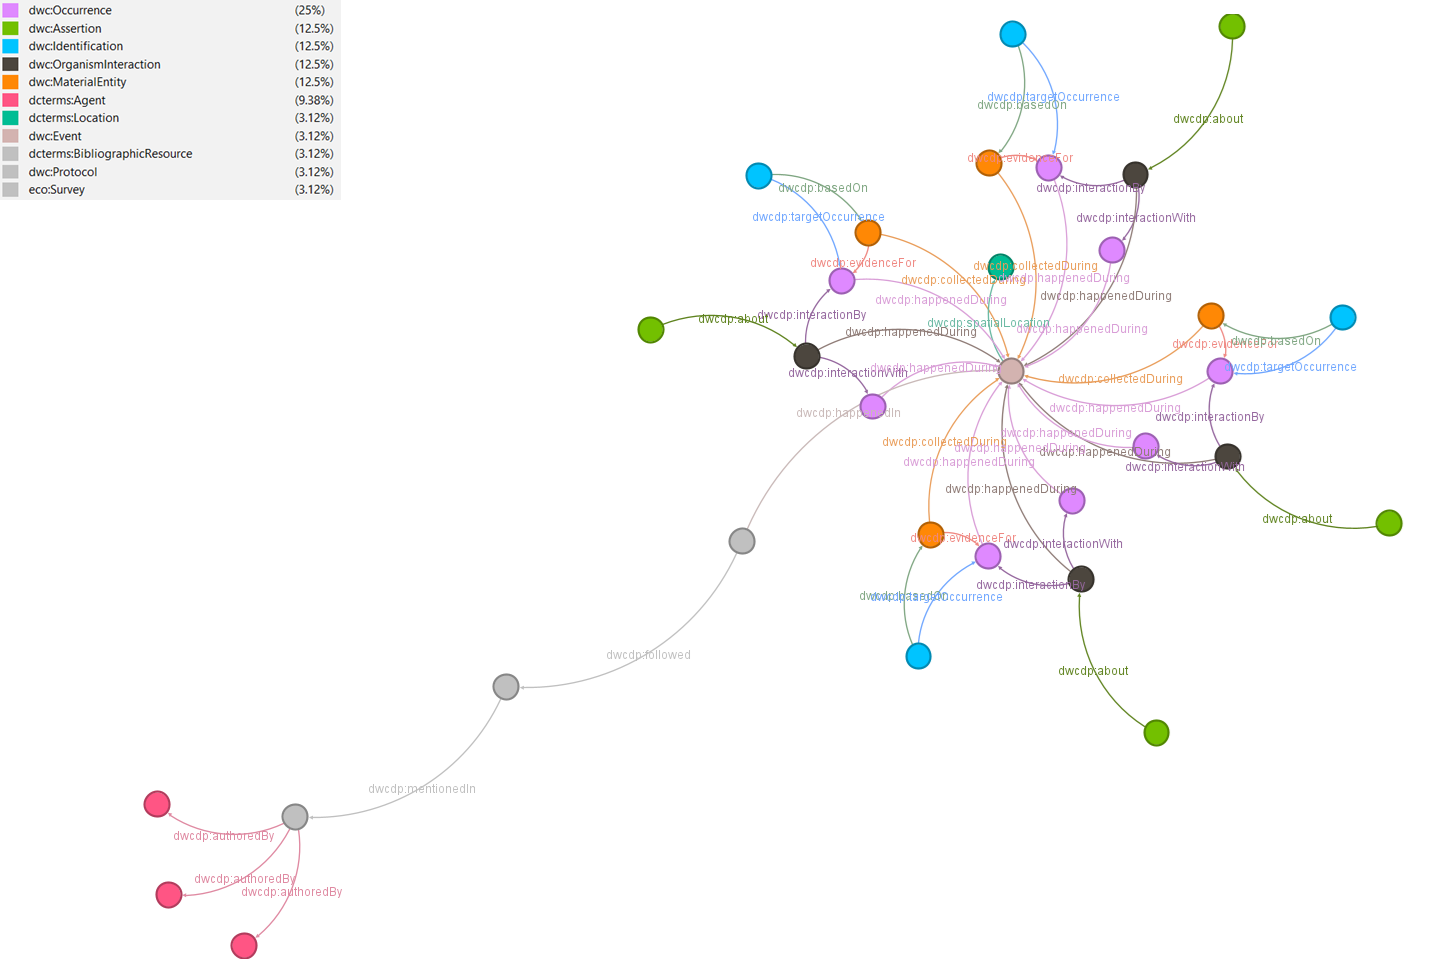
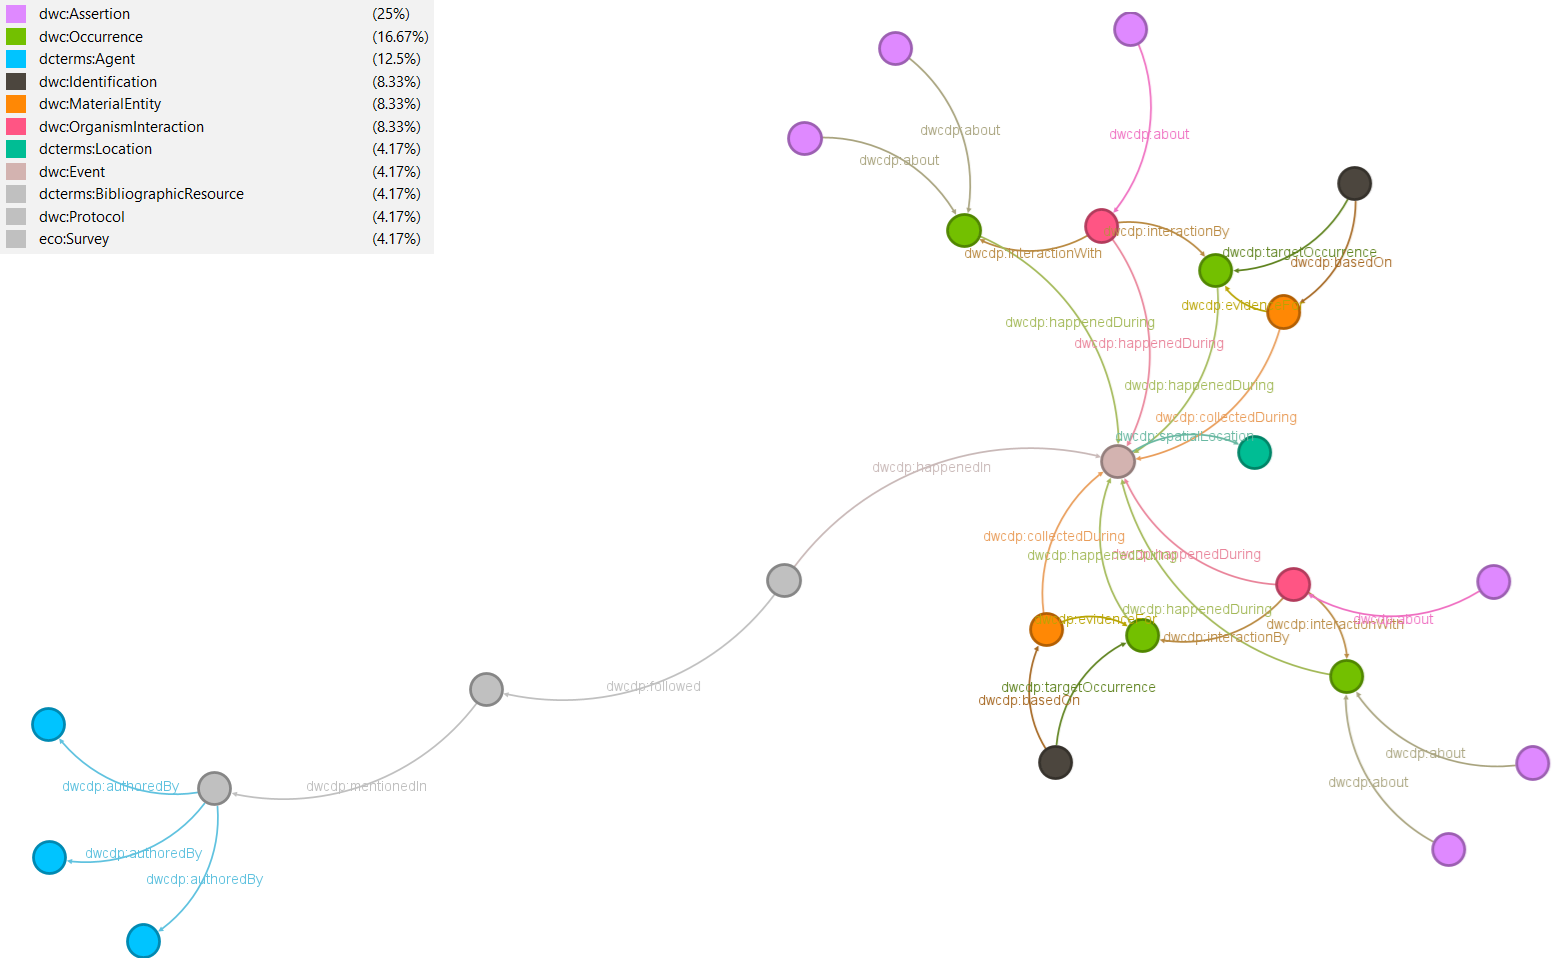
add text reworked crop flower visitors

diff --git a/README.md b/README.md
@@ -1456,3 +1456,147 @@ Values in the `dwc:occurrenceID` column follow the form `urn:catalog:JAMSTEC:god
   The exercise further highlights that some modelling challenges are not inherent to RDF itself, but rather emerge from ambiguities or compression in tabular representations. In particular, tables such as `survey-target.csv` may encode complex, multi-component concepts across multiple rows that are implicitly related. Making these relationships explicit in RDF requires careful modelling decisions, such as the introduction of intermediate nodes or component structures, to preserve the intended semantics for machine interpretation.
 
   Finally, this example shows that even a relatively small and well-scoped dataset can surface important design considerations for ontology development. Addressing these issues early—by aligning closely with DwC-DP, documenting modelling assumptions, and testing conversions on real datasets—helps ensure that the resulting RDF representations are both semantically faithful and robust for downstream applications such as automated querying, validation, and integration with other biodiversity knowledge graphs.
+
+## Value of revisiting datasets
+
+### More expressive datasets
+
+  The crop-flower-visit dataset was originally published as a sampling event dataset on GBIF. As it is, the dataset has information not only on insect visitors, but also on several other entities, such as the plant organisms visited, assertions about the visited plants and the nature of the relationship itself, which is a type of `dwc:OrganismInteraction`. However, the entirety of this information is provided as entries for the data property `dwc:occurrenceRemarks` or in the EML file within the Darwin Core Archive.
+
+  For example, an entry of `dwc:occurrenceRemarks` such as `Captured on Pyrus pyrifolia (Burm.f.) Nakai (Hermaphrodite) | Sample lost or damaged: FALSE` indicates that the insect was caught not just on any plant, but on an Asian pear plant. Furthermore, this plant was sexed as being hermaphrodite. In addition, the associated EML file mentions that `[t]he surveys were conducted on the days of full bloom` of the trees, indicating their reproductive condition. This information can be extracted and added to the graph as additional information.
+
+  Considering both pieces information leads to the more complex ontology subset:
+
+  ![Directed graph of the reworked crop-flower-visit dataset](images/subset/cropv2-small2.png)
+
+  The ontology subset is now more complex, as it requires the consideration of `dwc:OrganismInteraction` and of various kinds of `dwc:Assertion` instances. For ease of visualization, two `dwc:Occurrence` instances have been shown. The one representing the insect is related to the organism interaction node through the object property `dwcdp:interactionBy` and the occurrence representing the plant is related to the organism interaction node through the object property `dwcdp:interactionWith`.
+
+  Also note that assertions can be either about the plant organism (i.e. sex and reproductive condition) or about the interaction itself.
+
+  To view this more clearly, consider the graph created when only the data associated with event `TKC_04`, which happened in an experimental farm in the province of Ibaraki (茨城県). In this case, only two insects were captured, with one identified to the genus *Andrena*, and the other to *Lasioglossum*. Both were caught after visiting the flowers of hermaphrodite Asian pear trees (*Pyrus pyrifolia*). The two graphs below show the graph without and with the additional extracted data:
+
+![Directed graph of the reworked crop-flower-visit dataset](images/complete/cropv1-flower-directed-graph.png)
+![Directed graph of the reworked crop-flower-visit dataset](images/complete/cropv2-flower-directed-graph.png)
+
+  As can be seen, the general outline of the graph did not change. All that was done was add more information to the graph. Note that there may be cases where considering additional information can change the outline of the graph.
+
+  By rerunning the entire conversion of the Darwin Core Archive into RDF, the following graph can be produced:
+
+![Directed graph of the reworked crop-flower-visit dataset](images/cropv2-directed-graph.png)
+
+  The graph retains the same general flower-like appearance as before. However, in this case, the information contained in each flower is denser. Each flower is centered around a `dwc:Event`, which in this case, is a period during which researchers walked around the sites and captured flower-visiting insects. However, in this case, the information around each event is not simply about what insect was captured. The information now contains what insect was captured, doing what on which plant that had which assertions made about it. This is much more informative, and allows for more expressive datasets.
+
+  The interaction component of the data could be expressed in the following turtle snippet:
+
+  ```turtle
+  @prefix dcterms: <http://purl.org/dc/terms/> .
+  @prefix dwc: <http://rs.tdwg.org/dwc/terms/> .
+  @prefix dwcdp: <http://rs.tdwg.org/dwcdp/terms/> .
+  @prefix eco: <http://rs.tdwg.org/eco/terms/> .
+  @prefix xsd: <http://www.w3.org/2001/XMLSchema#> .
+
+  <urn:catalog:NIAES:Pollinators:TK17_72-occ> a dwc:Occurrence ;
+      dwc:basisOfRecord "PreservedSpecimen" ;
+      dwc:catalogNumber "TK17_72" ;
+      dwc:collectionCode "Pollinators" ;
+      dwc:eventID "TKC_04" ;
+      dwc:individualCount 1 ;
+      dwc:institutionCode "NIAES" ;
+      dwc:occurrenceRemarks "Captured on Pyrus pyrifolia (Burm.f.) Nakai (Hermaphrodite) | Sample lost or damaged: FALSE" ;
+      dwc:occurrenceStatus "present" ;
+      dwc:scientificName "Andrena" ;
+      dwcdp:happenedDuring <https://www.gbif.org/dataset/bbaca86c-f703-41fc-800a-fa301c0661fd/event/TKC_04> .
+
+  <urn:catalog:NIAES:Pollinators:TK17_72-occ-plant> a dwc:Occurrence ;
+      dwc:scientificName "Pyrus pyrifolia" ;
+      dwcdp:happenedDuring <https://www.gbif.org/dataset/bbaca86c-f703-41fc-800a-fa301c0661fd/event/TKC_04> .
+
+  <urn:catalog:NIAES:Pollinators:TK17_72-occ-plant-ass-1> a dwc:Assertion ;
+      dwc:assertionType "reproductive condition" ;
+      dwc:assertionTypeIRI dwc:reproductiveCondition ;
+      dwc:assertionValue "flowering stage" ;
+      dwc:assertionValueIRI <http://purl.obolibrary.org/obo/PO_0007616> ;
+      dwcdp:about <urn:catalog:NIAES:Pollinators:TK17_72-occ-plant> .
+
+  <urn:catalog:NIAES:Pollinators:TK17_72-occ-plant-ass-2> a dwc:Assertion ;
+      dwc:assertionType "sex" ;
+      dwc:assertionTypeIRI dwc:sex ;
+      dwc:assertionValue "hermaphrodite" ;
+      dwc:assertionValueIRI <http://purl.obolibrary.org/obo/PATO_0001340> ;
+      dwcdp:about <urn:catalog:NIAES:Pollinators:TK17_72-occ-plant> .
+
+  <urn:catalog:NIAES:Pollinators:TK17_72-occ-org-interaction> a dwc:OrganismInteraction ;
+      dwc:organismInteractionDescription "insects observed entering flowers from the front or accessing reproductive organs" ;
+      dwc:organismInteractionType "visited flower of" ;
+      dwc:relatedOrganismPart "flower" ;
+      dwc:subjectOrganismPart "body" ;
+      dwcdp:happenedDuring <https://www.gbif.org/dataset/bbaca86c-f703-41fc-800a-fa301c0661fd/event/TKC_04> ;
+      dwcdp:interactionBy <urn:catalog:NIAES:Pollinators:TK17_72-occ> ;
+      dwcdp:interactionWith <urn:catalog:NIAES:Pollinators:TK17_72-occ-plant> .
+
+  <urn:catalog:NIAES:Pollinators:TK17_72-occ-org-interaction-assert> a dwc:Assertion ;
+      dwc:assertionMadeDate "2017-04-25" ;
+      dwc:assertionValue "visits flowers of" ;
+      dwc:assertionValueIRI <http://purl.obolibrary.org/obo/RO_0002622> ;
+      dwcdp:about <urn:catalog:NIAES:Pollinators:TK17_72-occ-org-interaction> .
+  ```
+
+  Extraction of additional information and updating of the dataset using DwC-DP terms and the DwC-OWL ontology leads to a richer and more expressive dataset. It also leads itself more readily to analyses and querying. For example, a SPARQL query can now target occurrences of insects but only on Asian pear trees. Before, this would have required laborious regexing of the text. Consequently, the use of DwC-DP terms and the DwC-OWL ontology should not be seen only as something that should be used from now on, but also as something that researchers can use to make previously published datasets more expressive.
+
+### Smarter querying
+
+Furthermore, suppose we had the crop dataset stored in a triplestore and that it was exposed through a SPARQL endpoint. The following SPARQL query allows for extraction of the desired data (i.e. occurrences of insects but only on male Japanese persimmon trees):
+
+```sparql
+PREFIX dwc: <http://rs.tdwg.org/dwc/terms/>
+PREFIX dwcdp: <http://rs.tdwg.org/dwcdp/terms/>
+
+SELECT ?occPol ?occSci
+
+WHERE {
+  ?occPol a dwc:Occurrence ;
+          dwc:scientificName ?occSci ;
+          dwc:occurrenceRemarks ?occRem .
+
+  FILTER regex(?occRem, "Diospyros kaki")
+  FILTER regex(?occRem, "\\bmale\\b", "i")
+}
+```
+
+The query is a simple SPARQL query with regex-based pattern searching of the `dwc:occurrenceRemarks` entry. However, given that the study occurred in Japan, it is entirely possible that the researchers could have chosen the term `雄株` instead of `male` to define the sex of the flower. In this case, regexing becomes much more complicated for additional reasons. For example, would the researcher consider the kanji `雄株` or hiragana `おかぶ`? Would he consider the literal term `male` or a symbol such as `♂`?
+
+Note that this notion is quite real, as the previously seen Colombia bird ring dataset provided bird sex as the Spanish `Macho` and `Hembra`. Likewise, the capitalization of `Macho` means that unless come form of string manipulation is employed, `Macho` will not be considered the same as `macho`.
+
+On the other hand, the SPARQL query that is based on the DWC-OWL ontology is a bit more verbose, but is much more concise and consists of:
+
+```sparql
+PREFIX dwc: <http://rs.tdwg.org/dwc/terms/>
+PREFIX dwcdp: <http://rs.tdwg.org/dwcdp/terms/>
+
+SELECT ?occPol ?occSci
+
+WHERE {
+  ?occPol a dwc:Occurrence ;
+          dwc:scientificName ?occSci .
+  
+  ?inter a dwc:OrganismInteraction ;
+         dwcdp:interactionBy ?occPol ;
+         dwcdp:interactionWith ?occPlant .
+  
+  ?occPlant a dwc:Occurrence ;
+            dwc:scientificName "Diospyros kaki" .
+  
+  ?plantAss a dwc:Assertion ;
+            dwcdp:about ?occPlant ;
+            dwc:assertionValueIRI <http://purl.obolibrary.org/obo/PATO_0000384> .
+}
+```
+
+Where http://purl.obolibrary.org/obo/PATO_0000384 is an IRI that corresponds to a specific PATO (Phenotype And Trait Ontology) term, in this case `male`. Consideration of a persistent IRI safegards against the previously mentionned issues, as it is a language-independent way to refer to the same concept.
+
+Furthermore, the regex-based query has a glaring problem that can potentially slip by unnoticed. The pattern `\\bmale\\b` will blindly look for the word `male`, anywhere in the occurrence remarks. Therefore, the WRONG results can be returned for reasons other than what the researcher intended. For example, the following `dwc:occurrenceRemarks` will still be a match: `occurrence of a male Lasioglossus on a female flower of Diospyros kaki`. This is because the regex just blindly looks for the string `male` in the string, regardless of whether it relates to the pollinator or to the plant. In contrast, the semantically-aware query will successfully retrieve the desired data, because it has connected the data in a semantically meaningful way.
+
+Simple text-based querying introduces both false positives (matching the right word in the wrong semantic context) and false negatives (missing valid records due to language, script, or capitalization differences). Therefore, more efforts should be made towards making biodiversity data machine-readable and in an ontologically sound manner.
+
+This illustrates an important point: while RDF provides a flexible framework for representing data, it alone is not enough to significantly advance data-sharing and reuse. Only when RDF is backed with a robust ontological foundation can it enable truly meaningful, semantically precise data-sharing and reuse.
+
